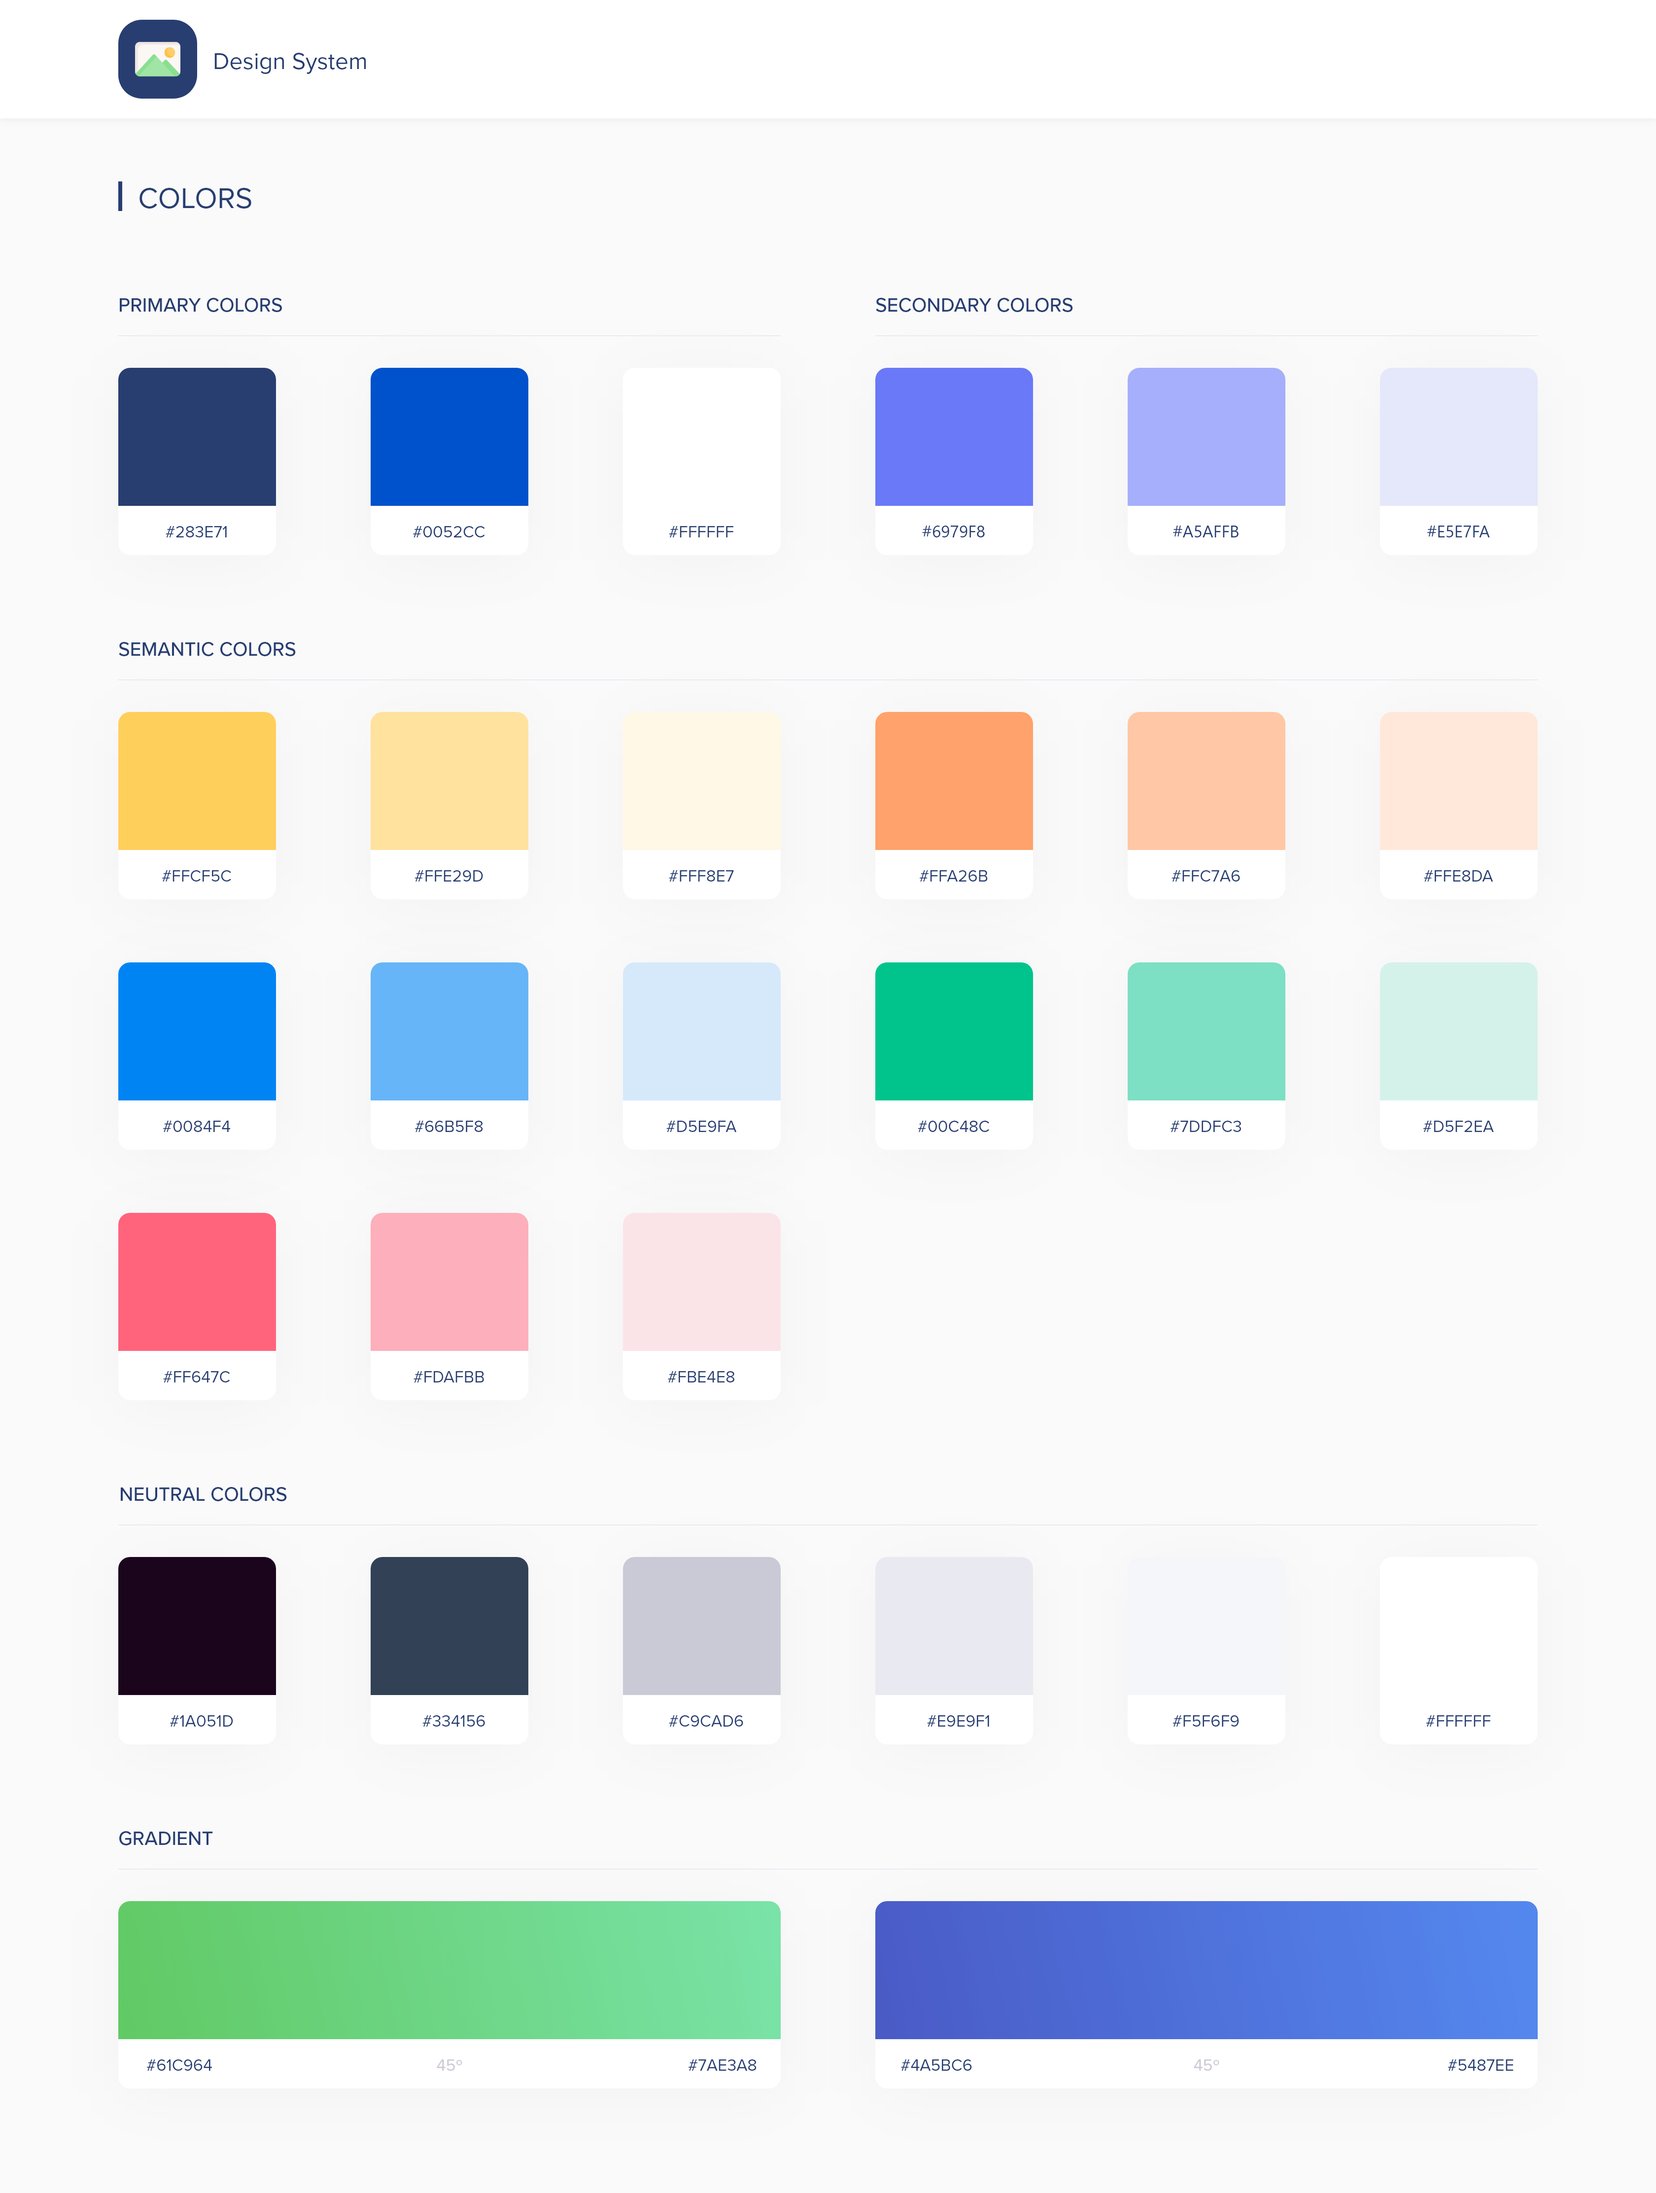
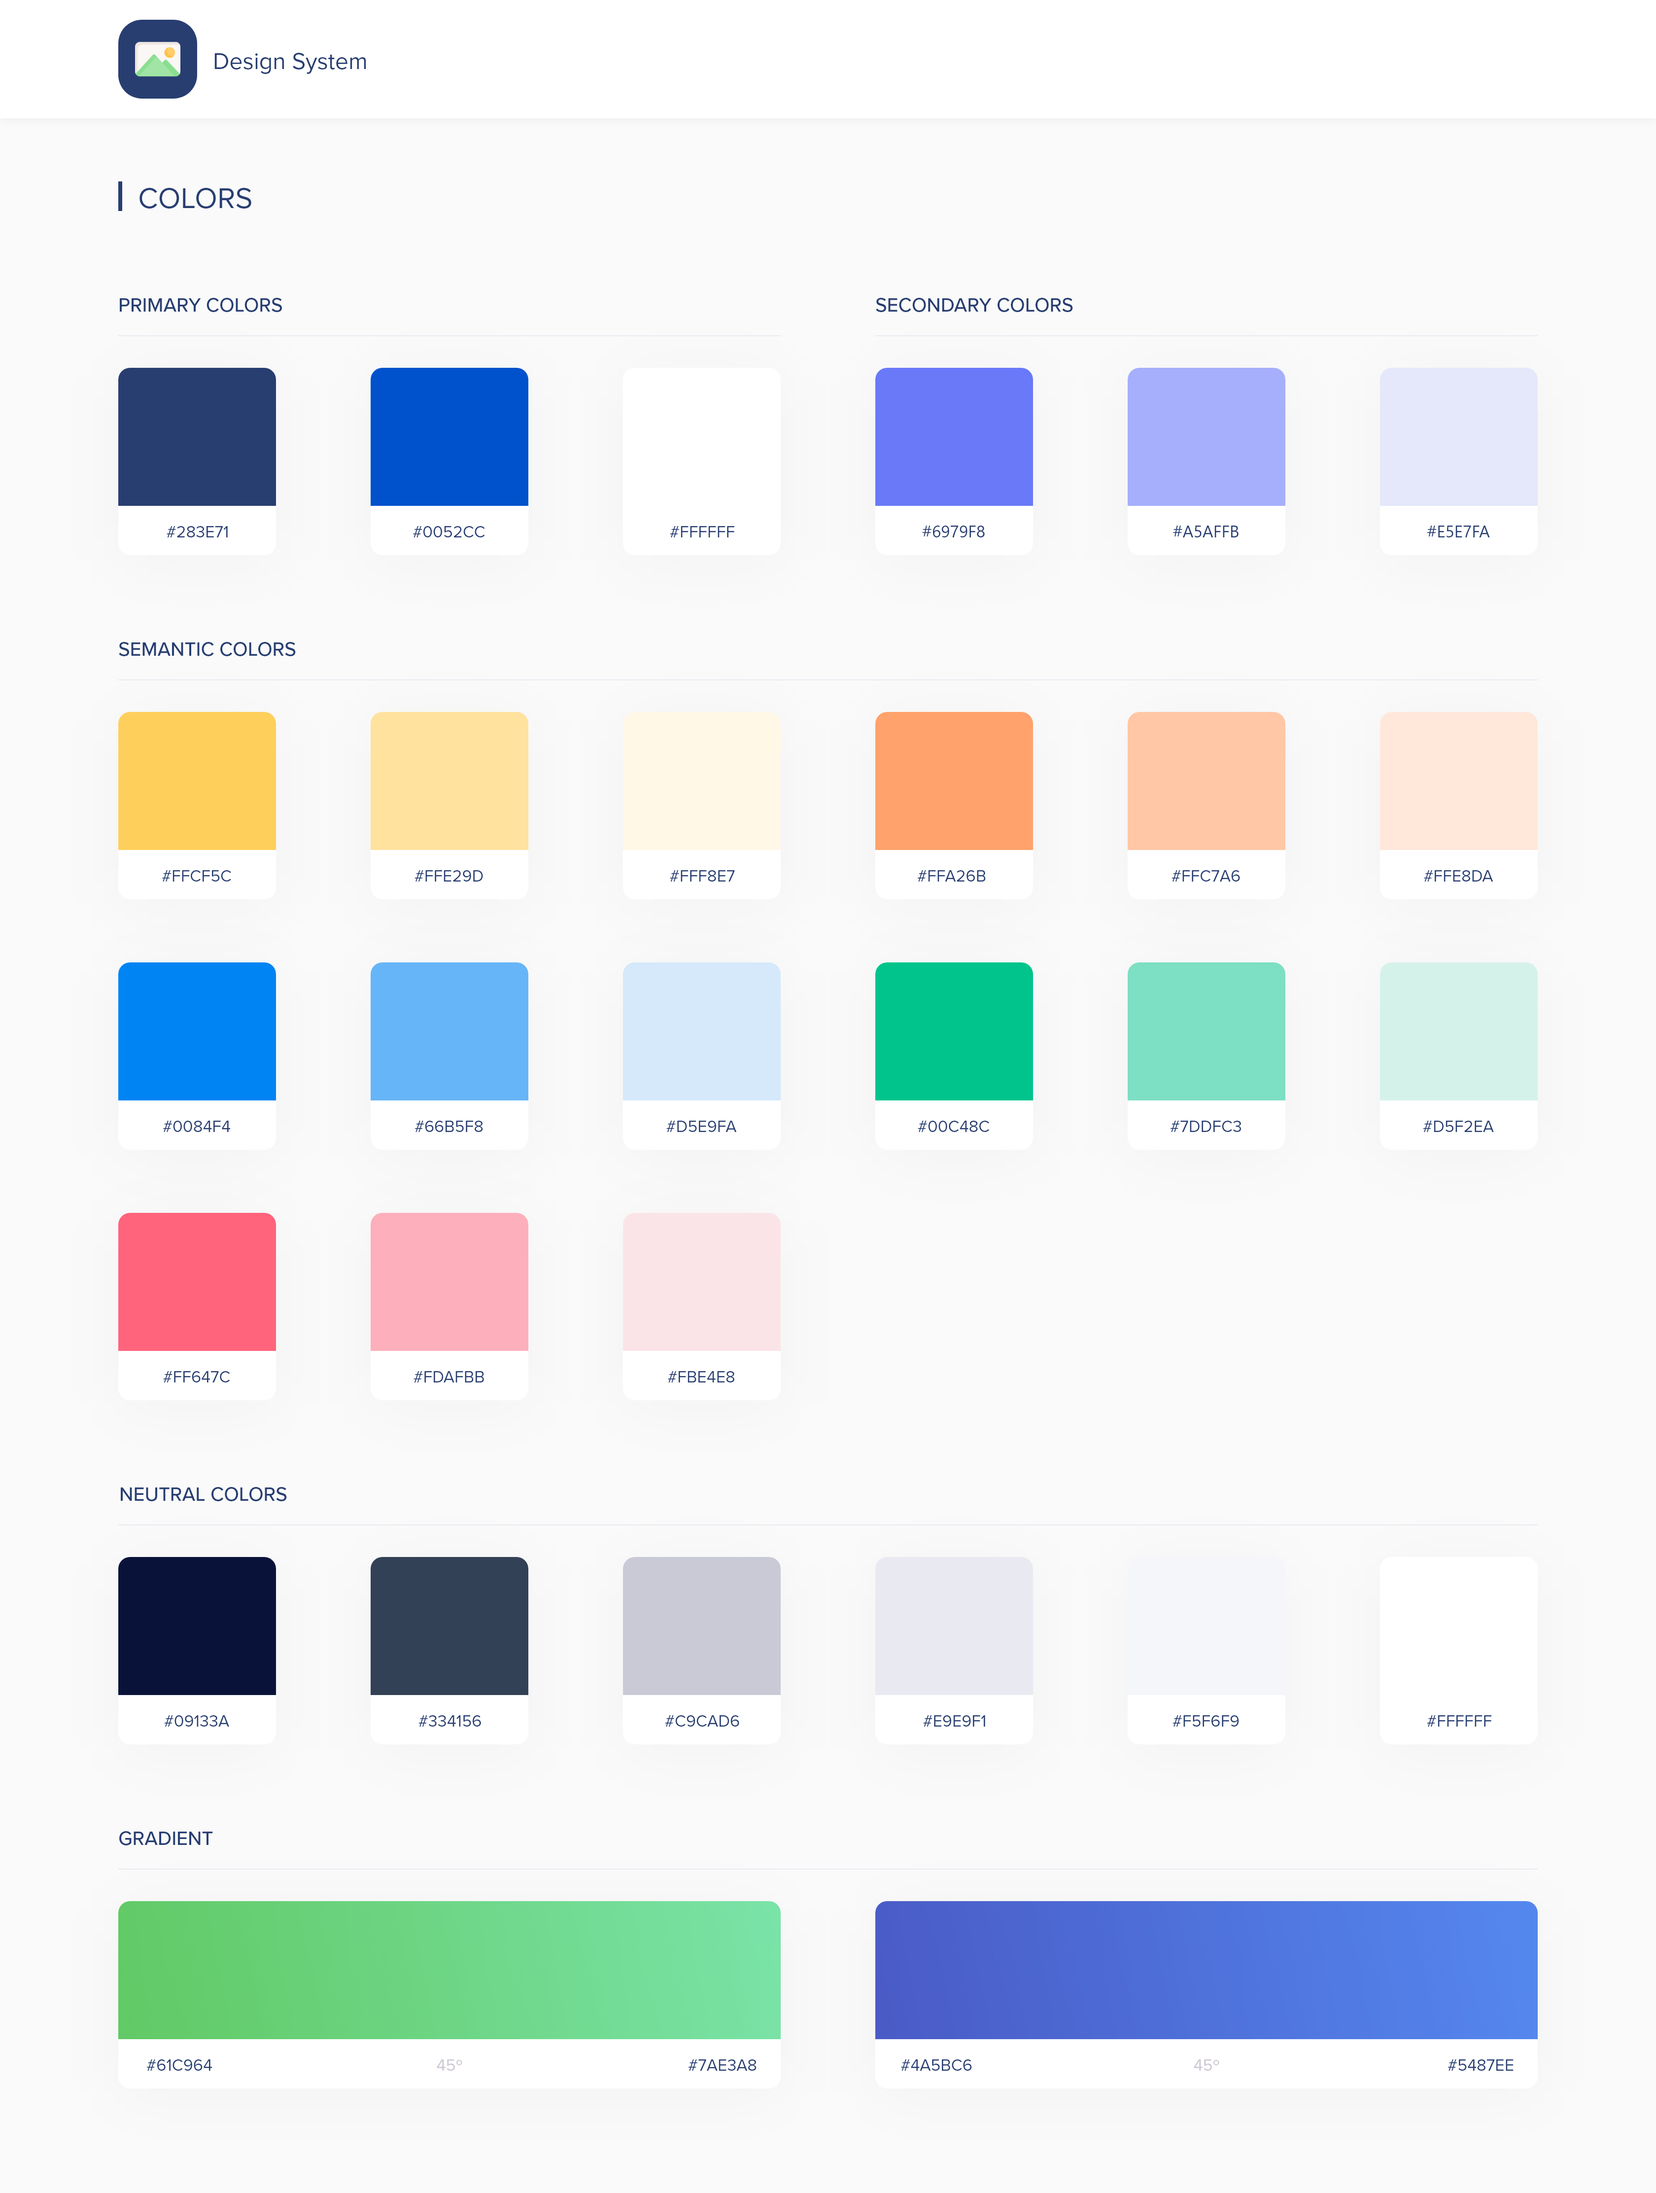
Updated DS Case Study.

Changed region(s): [[0.0625, 0.6875, 0.1875, 0.7812]]

diff --git a/design-system-case-study.html b/design-system-case-study.html
@@ -127,7 +127,7 @@
             <p>Before making actual changes and removing things from the old design system, this is where research comes into play. I've used tools like <a href="https://cssstats.com/" target="_blank">CSS Stats</a> which is to find and analyze a site's CSS properties and stylesheets. Below is a visualization of all of the different styling variations on the site prior to making any changes.</p>
             <img src="images/css-stats-example-image.png" class="img-responsive image-asset" data-aos="fade-left" data-aos-delay="300">
             <p><b>Listing The UI Inventory</b></p>
-            <p>The inventory process helped us clearly see all discrepancies and inconsistencies across our site and product. We conducted a full two days audit that ran by 2 designers and 1 engineer. The end goal for this exercise is to identify all inconsistencies in our design assets.</p>
+            <p>The inventory process helped us clearly see all discrepancies and inconsistencies across our site and product. We conducted a full 4 days audit that ran by 1 designer and 1 engineer. The end goal for this exercise is to identify all inconsistencies in our design assets.</p>
             <img src="images/image-placeholder2.jpeg" class="img-responsive image-asset" data-aos="fade-left" data-aos-delay="300">
             <p><b>The In-Between</b></p>
             <p>To ensure the success of this project, it was important to get stakeholders and everyone is who directly a part of this project on the same page. We systematically promoted the initiative for the following:</p>
@@ -162,7 +162,27 @@
         </div>
         <div class="col-md-9">
             <p><b>Color Palette</b></p>
-            <p>Lorem ipsum dolor sit amet, consectetur adipiscing elit, sed do eiusmod tempor incididunt ut labore et dolore magna aliqua. Ut enim ad minim veniam, quis nostrud exercitation ullamco laboris nisi ut aliquip ex ea commodo consequat. Duis aute irure dolor in reprehenderit in voluptate velit esse cillum dolore eu fugiat nulla pariatur.</p>
+            <p>After our audit excerise, we were able to remove all of the colors that served no purpose for the new design system. Here are some of the key principles we factored for selecting colors: Colors should have meaning and they should follow accessibility guidelines.<br><br>We've organized the colors into 4 groups: Primary, Secondary, Semantic, and Neutral.
+                <ul>
+                    <b><li>Primary Colors</li></b>
+                    <ul>
+                        <li>These are the colors used the most across the user interface and with the brand.</li>
+                    </ul>
+                    <b><li>Secondary Colors</li></b>
+                    <ul>
+                        <li>These colors compliment the primary colors and help certain components stand out.</li>
+                    </ul>
+                    <b><li>Semantic Colors</li></b>
+                    <ul>
+                        <li>These colors help convey messages and communicate purposely.</li>
+                    </ul>
+                    <b><li>Neutral Colors</li></b>
+                    <ul>
+                        <li>These colors include shades of grey, from dark blue to white. Primary used for backgrounds, texts, etc</li>
+                    </ul>
+                </ul>
+            </p>
+            <p>The colors palette meets the WCAG 2.1 compliant contrast ratios.This will help the experience of using the product more accessible.</p>
             <img src="images/color-palette-design-system.png" class="img-responsive image-asset" data-aos="fade-left" data-aos-delay="300">
             <p><b>Typography</b></p>
             <p>Out of the font families based on the CSS Stats, we went with Proxima Nova. It works well for all screens and it has great flexibility. The font is for almost everything; whether it's for branding or marketing<br><br>In this design system, Proxima Nova is used in 3 different weights: Regular, Medium, and Bold. There are two versions of the fonts, one in light (#ffffff) and the one in dark (#1A051D). In order to meet the minimum AA-level WCAG web accessibility standards, all text is a minimum font-size of 16px and the line-height of 1.5x</p>
@@ -181,7 +201,7 @@
             </p>
             <img src="images/iconography-design-system.png" class="img-responsive image-asset" data-aos="fade-left" data-aos-delay="300">
             <p><b>Components</b></p>
-            <p>Lorem ipsum dolor sit amet, consectetur adipiscing elit, sed do eiusmod tempor incididunt ut labore et dolore magna aliqua. Ut enim ad minim veniam, quis nostrud exercitation ullamco laboris nisi ut aliquip ex ea commodo consequat. Duis aute irure dolor in reprehenderit in voluptate velit esse cillum dolore eu fugiat nulla pariatur.</p>
+            <p>They make up the heart of the new design system. Some examples listed below are call-to-action buttons, form fields, date picker, etc. After the collaboration effort from the team to make this all happen, it is now possible to reuse any components which speeds up the workflow, avoid different varations of one component, and saves time for everyone. </p>
             <img src="images/image-placeholder-3.jpeg" class="img-responsive image-asset" data-aos="fade-left" data-aos-delay="300">
             <p>Note: All of the final design system content above are just a preview to what the full design system entails. </p>
         </div>
